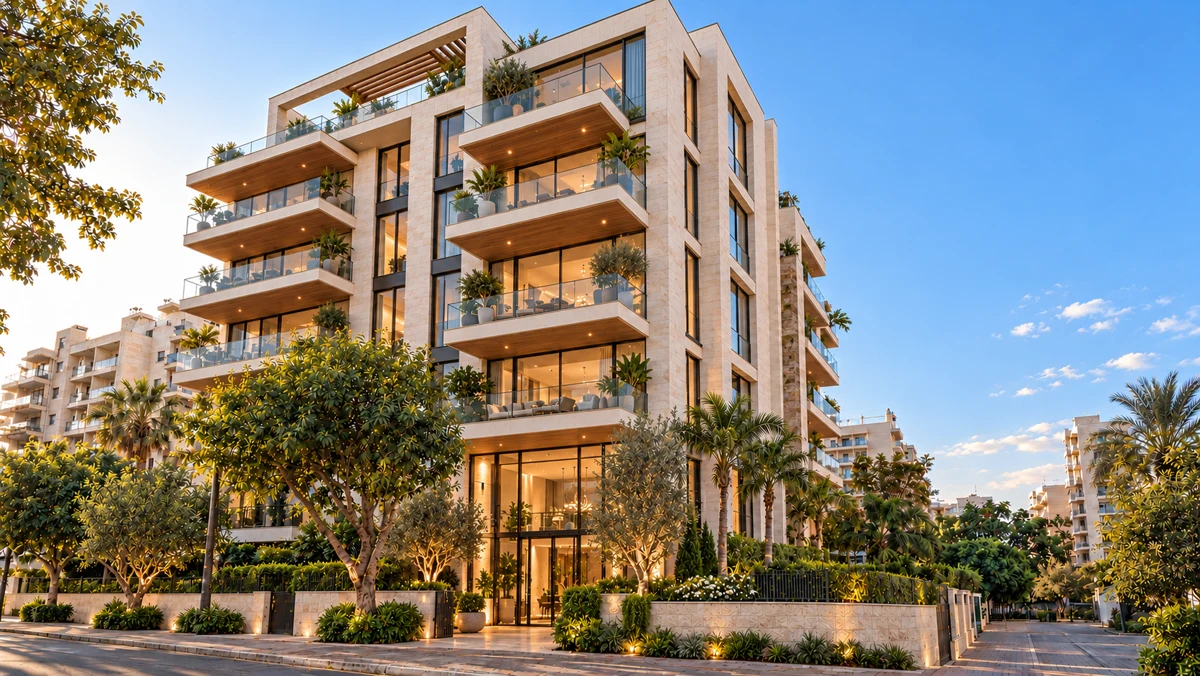
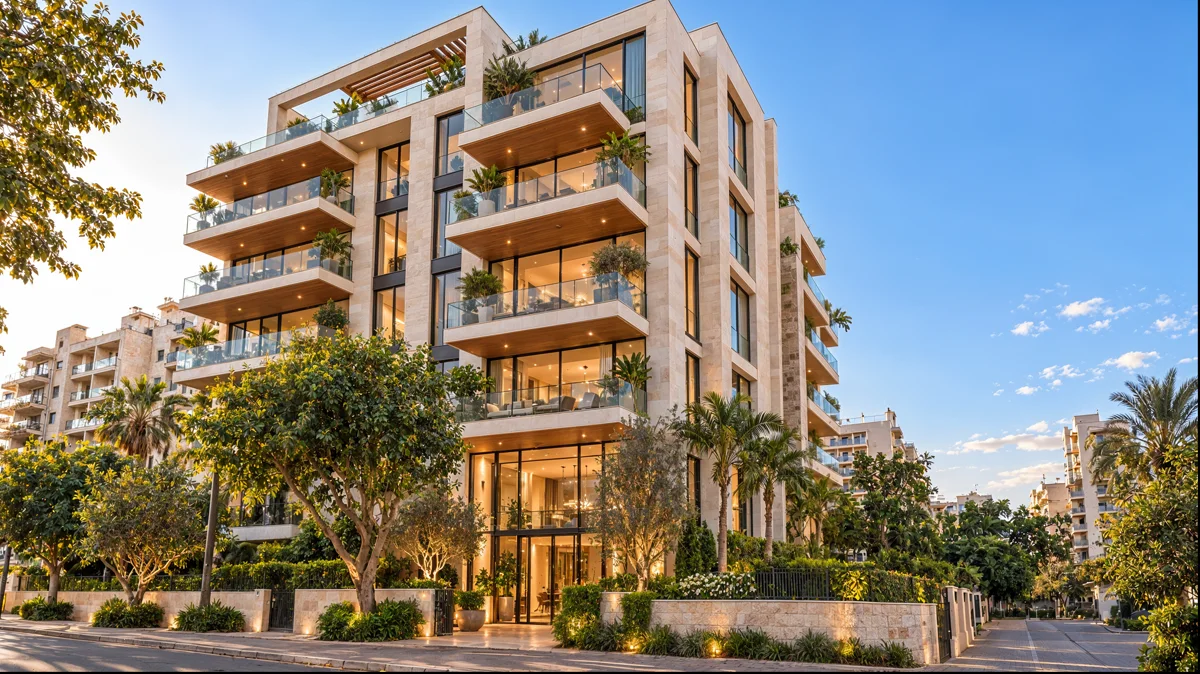
Hero: Magnific nature upscale for realistic trees (desktop 2400px, mobile 1080px), stronger glass on the secondary button

diff --git a/index.html b/index.html
@@ -9,7 +9,7 @@
   <link rel="preload" href="fonts/Discovery_Fs-Bold.woff2" as="font" type="font/woff2" crossorigin>
   <link rel="preload" href="fonts/Discovery_Fs-Light.woff2" as="font" type="font/woff2" crossorigin>
   <link rel="preload" as="image" href="img/hero/hero-v4-mobile.webp" media="(max-width: 767px)" fetchpriority="high">
-  <link rel="preload" as="image" href="img/hero/hero-v4.webp" imagesrcset="img/hero/hero-v4-1200.webp 1200w, img/hero/hero-v4.webp 1672w" imagesizes="100vw" media="(min-width: 768px)" fetchpriority="high">
+  <link rel="preload" as="image" href="img/hero/hero-v4.webp" imagesrcset="img/hero/hero-v4-1200.webp 1200w, img/hero/hero-v4.webp 2400w" imagesizes="100vw" media="(min-width: 768px)" fetchpriority="high">
   <link rel="stylesheet" href="css/tokens.css">
   <link rel="stylesheet" href="css/header.css">
   <link rel="stylesheet" href="css/hero.css">
@@ -80,10 +80,10 @@
 </header>
 <main>
 <section class="hero" aria-labelledby="hero-title">
-  <!-- גרסה 4: בניין מגורים יוקרתי מבחוץ, בלי מזגנים ומכוניות (ChatGPT, 26.10.2026). לרוחב במחשב, לגובה במובייל -->
+  <!-- גרסה 4: בניין מגורים יוקרתי מבחוץ, בלי מזגנים ומכוניות (ChatGPT, חידוד ב-Magnific, 27.10.2026). לרוחב במחשב, לגובה במובייל -->
   <picture>
-    <source media="(max-width: 767px)" srcset="img/hero/hero-v4-mobile.webp" width="941" height="1672">
-    <img class="hero__bg" src="img/hero/hero-v4.webp" srcset="img/hero/hero-v4-1200.webp 1200w, img/hero/hero-v4.webp 1672w" sizes="100vw" width="1672" height="941" alt="" fetchpriority="high">
+    <source media="(max-width: 767px)" srcset="img/hero/hero-v4-mobile.webp" width="1080" height="1920">
+    <img class="hero__bg" src="img/hero/hero-v4.webp" srcset="img/hero/hero-v4-1200.webp 1200w, img/hero/hero-v4.webp 2400w" sizes="100vw" width="2400" height="1349" alt="" fetchpriority="high">
   </picture>
   <div class="hero__shade" aria-hidden="true"></div>
   <div class="hero__content">

diff --git a/css/theme-light.css b/css/theme-light.css
@@ -153,9 +153,14 @@
 /* HAR SALUL בפוטר: קטן יותר וממורכז, בלי לחרוג מהמסך */
 .site-footer__mark { margin-inline: 0; font-size: clamp(40px, 10.5vw, 190px); text-align: center; }
 
-/* מסך פתיחה: כפתור "מחפשים דירה" לבן עם טקסט וחץ כהים, במקום זכוכית שקופה */
-.hero .btn--glass { --btn-fg: var(--ink); background: #FFFFFF; color: var(--ink); box-shadow: none; -webkit-backdrop-filter: none; backdrop-filter: none; }
-.hero .btn--glass:hover { background: var(--cream); }
+/* מסך פתיחה: כפתור "מחפשים דירה" זכוכית בולטת: טשטוש חזק, שכבה כהה עדינה וקו בהיר, טקסט וחץ לבנים */
+.hero .btn--glass {
+  --btn-fg: #FFFFFF; color: #FFFFFF;
+  background: rgba(255, 255, 255, .16);
+  -webkit-backdrop-filter: blur(22px) saturate(160%); backdrop-filter: blur(22px) saturate(160%);
+  box-shadow: inset 0 0 0 1px rgba(255, 255, 255, .45), 0 10px 30px -12px rgba(0, 25, 43, .45);
+}
+.hero .btn--glass:hover { background: rgba(255, 255, 255, .26); }
 
 /* כפתורים ופסי טפסים: פינות 12px כמו התמונות, לא גלולה */
 .search__bar, .contact-bar__fields, .search__type label { border-radius: var(--radius) !important; }
